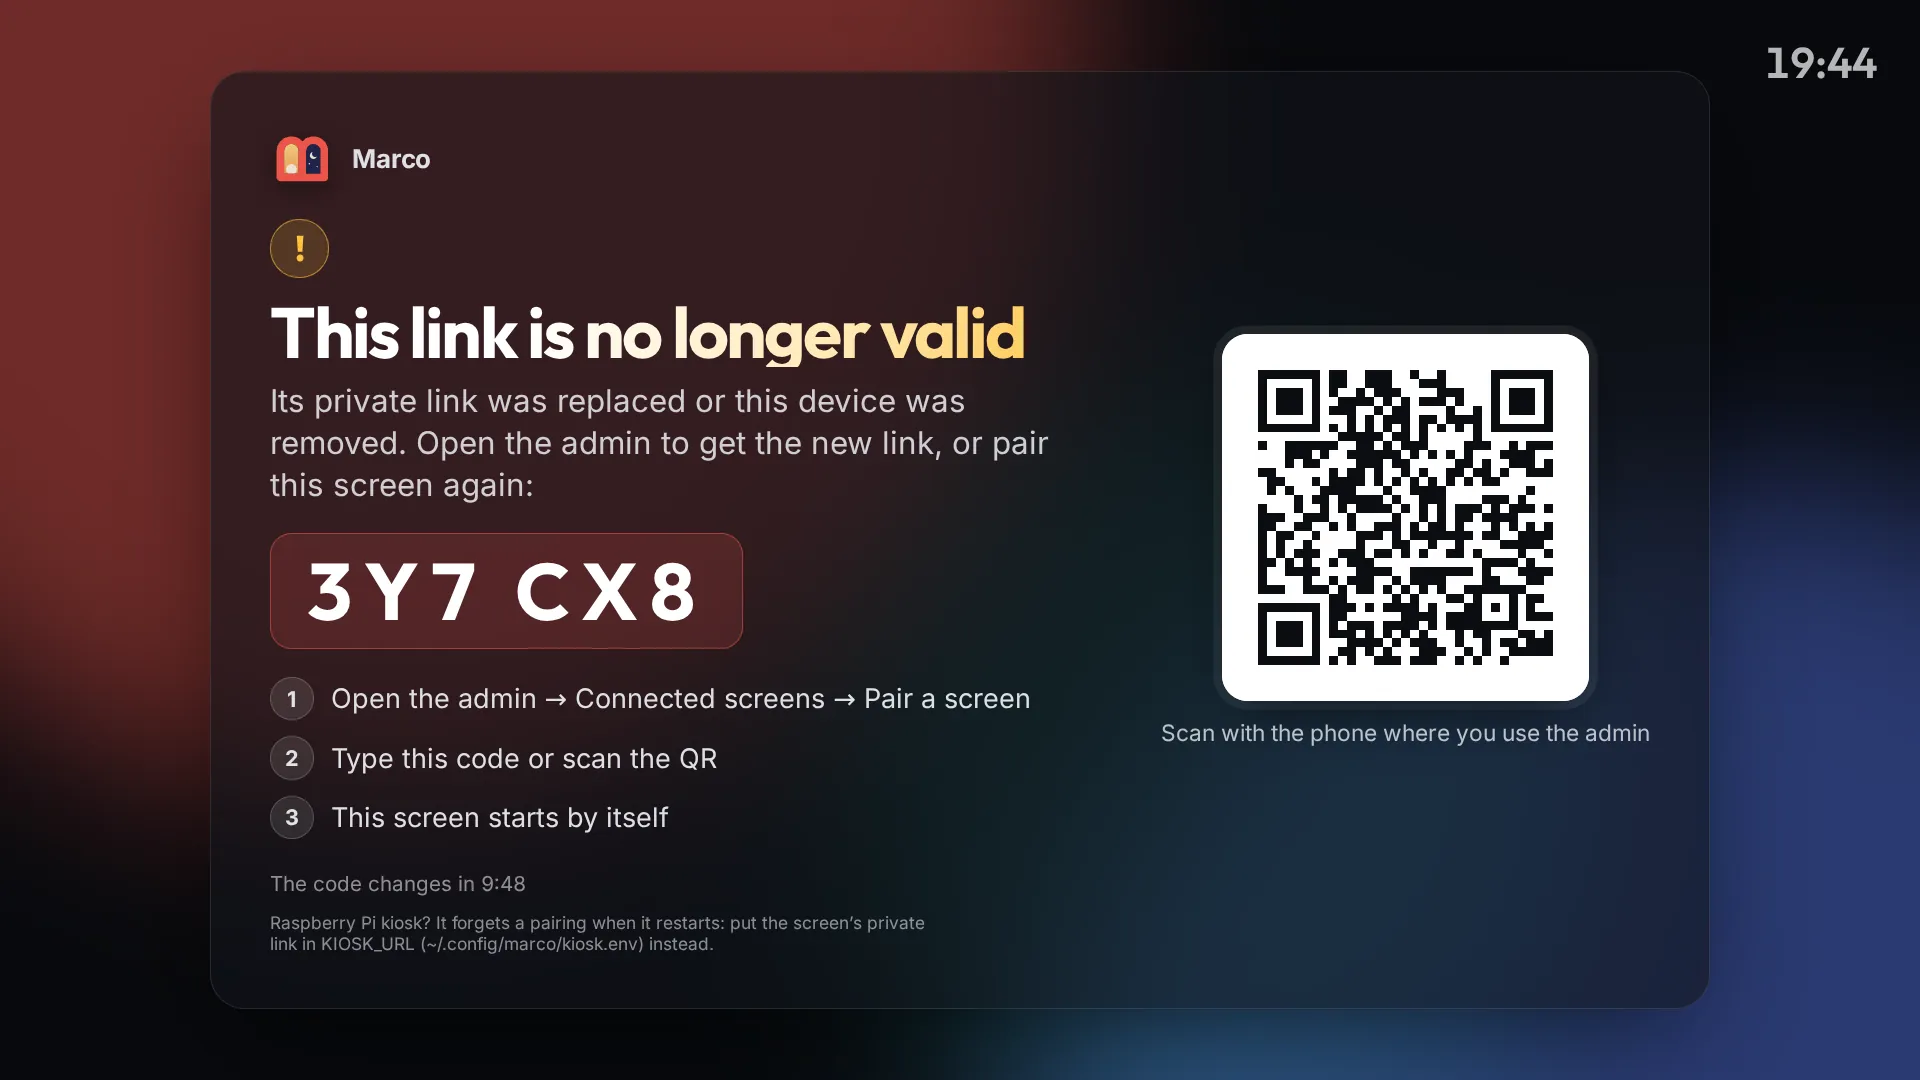
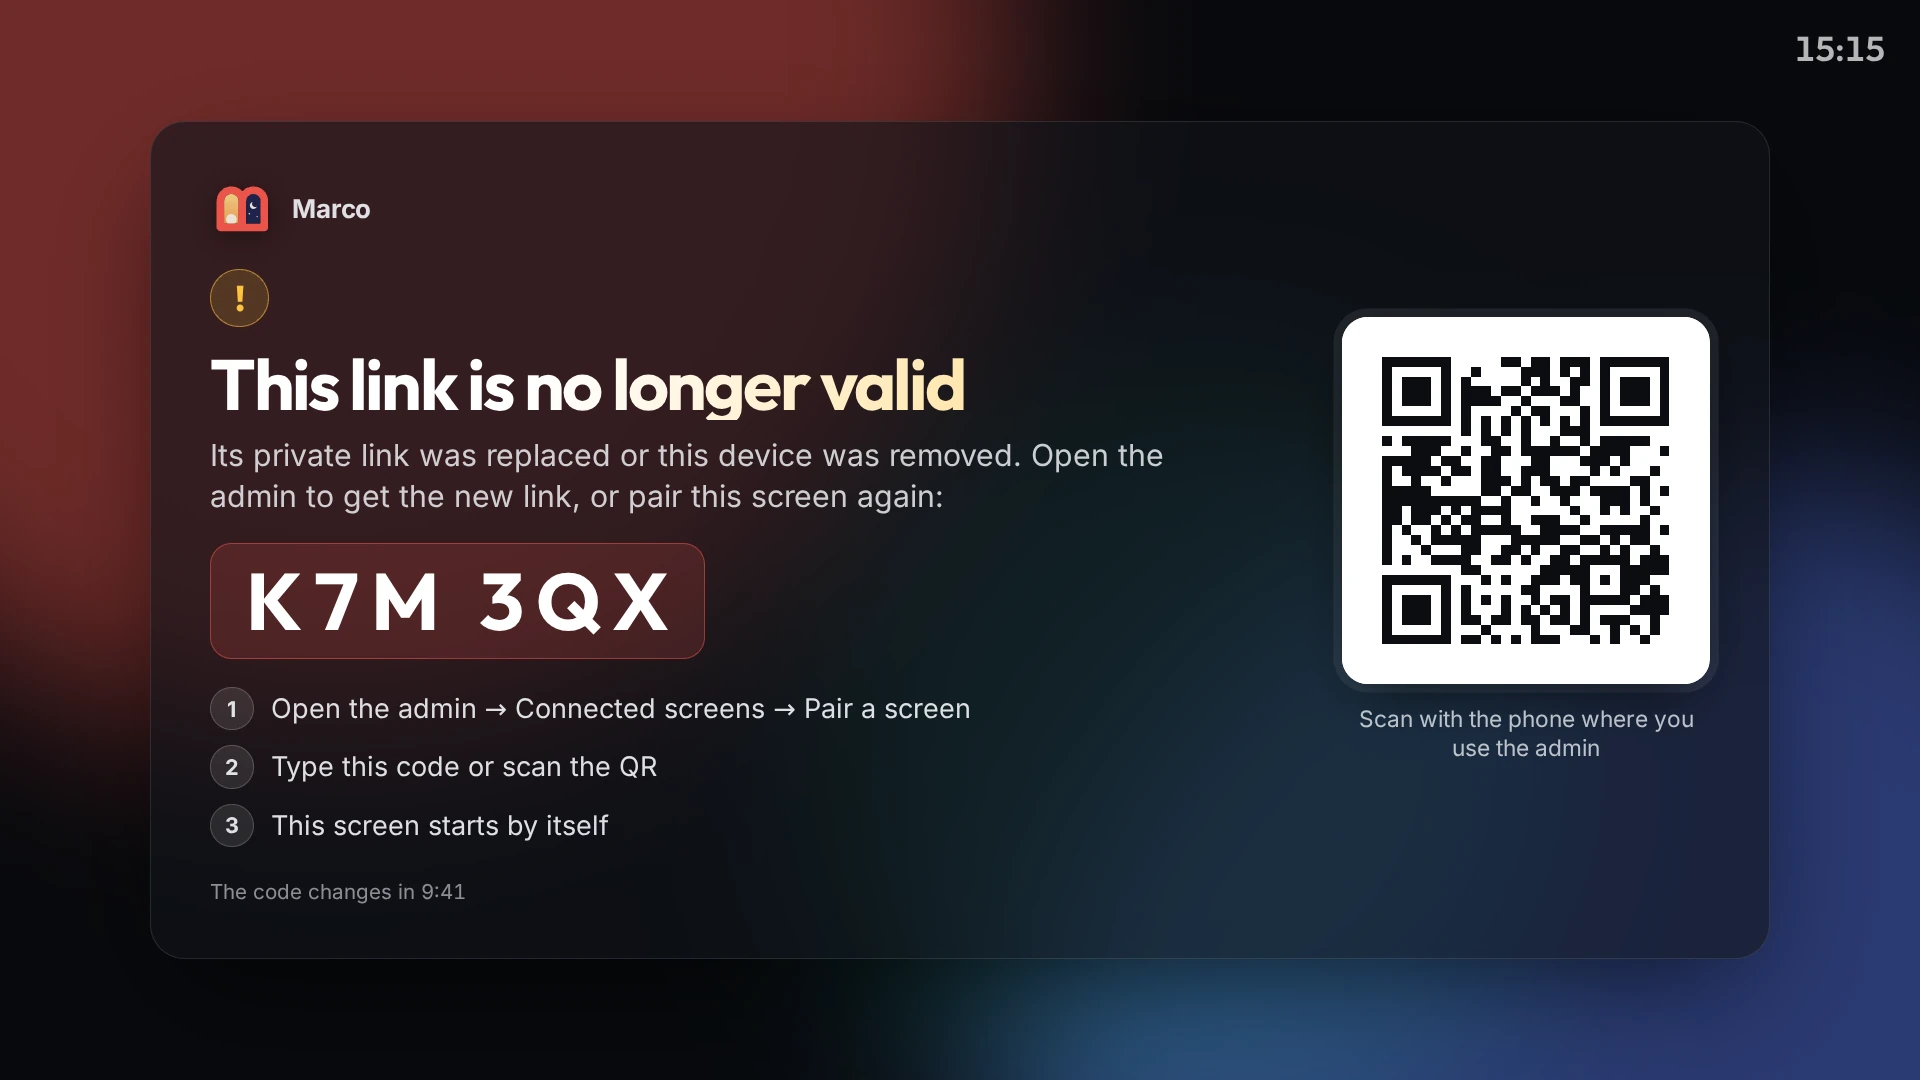
Docs: screenshots in the Modern style, new layouts and glass, Marco Cloud in the READMEs
- Display screenshots re-shot from the demo in the Modern style (same file names), plus the
  six new layouts (today, people, photo frame, two weeks, board, bedside), a Modern and Classic
  comparison and the glass options side by side.
- Pairing, invalid link and welcome screens re-shot after the pairing screen changes; the
  kitchen screen re-shot from the demo server.
- Admin re-shot where it changed: home, layout (style, glass and the eleven layouts), screens,
  gallery, private link, connected screens, Spanish home and the phone home.
- docs/media: new animated preview and poster in the Modern style.
- READMEs: link to marcohome.app, and a short "two ways to run it" section with Marco Cloud
  (free for families, hosted at app.marcohome.app) next to the self-hosted install; glass
  options in the feature list.

Changed region(s): [[0.0625, 0.0, 0.5938, 0.8861], [0.5312, 0.275, 0.9375, 0.9778], [0.9062, 0.0306, 1.0, 0.0917]]

diff --git a/README.md b/README.md
@@ -20,7 +20,7 @@
 
 <a href="https://github.com/mr-reb00t/marco/releases/download/media/marco-demo.mp4"><img src="docs/media/hero.webp" width="100%" alt="Marco on a living room screen: photo background, clock, weather and a month calendar; an alert from Home Assistant slides in saying the washing machine is done"></a>
 
-[Watch the 48-second demo video (MP4)](https://github.com/mr-reb00t/marco/releases/download/media/marco-demo.mp4) · [marcohome.app](https://marcohome.app)
+[Website: marcohome.app](https://marcohome.app) · [Marco Cloud](https://app.marcohome.app/signup) · [Demo video (MP4)](https://github.com/mr-reb00t/marco/releases/download/media/marco-demo.mp4)
 
 ```bash
 curl -fsSL https://marcohome.app/install | bash
@@ -28,12 +28,24 @@ curl -fsSL https://marcohome.app/install | bash
 
 </div>
 
+### Two ways to run it
+
+- **On your own hardware (self-hosted):** a Raspberry Pi, home server or NAS on your network, installed with the
+  one-line command above, [Docker](#docker) or [by hand](#manual-install-nodejs). Free and open source, and your data
+  stays at home. Everything in this README is about this option.
+- **Marco Cloud, if you don't want to run a server:** the same app and the same admin panel, hosted by us at
+  [app.marcohome.app](https://app.marcohome.app). It is free for families, runs on Cloudflare and keeps your data in
+  the EU. [Create an account](https://app.marcohome.app/signup), add your calendars and open your screen's link on a
+  TV, tablet or Raspberry Pi.
+
+More about both on the website: [marcohome.app](https://marcohome.app).
+
 ## Why
 
 Marco is inspired by [DAKboard](https://dakboard.com/): a wall display that shows your family calendar,
 the time, the weather, photos and news at a glance. It is a **free, open-source, self-hosted alternative** that you run
-on your own Raspberry Pi, home server or NAS **inside your local network**. There is no account, no subscription and
-no cloud in the middle: your configuration, photos and calendar data stay at home. The only outbound traffic goes to the
+on your own Raspberry Pi, home server or NAS **inside your local network**. When you host it yourself, there is no
+account, no subscription and no cloud in the middle: your configuration, photos and calendar data stay at home. The only outbound traffic goes to the
 calendars, weather and news feeds *you* connect.
 
 > Marco is an independent project. It is not affiliated with, endorsed by or connected to DAKboard;
@@ -49,13 +61,30 @@ calendars, weather and news feeds *you* connect.
 
 ### The display
 
-![Marco on a 1920x1080 display: clock, highlights, countdowns, weather and a month calendar with events, birthdays and vacation-rental stays](docs/screenshots/display-1920x1080.webp)
+![Marco on a 1920x1080 display in the Modern style: clock, highlights, countdowns, weather and a month calendar with events, birthdays and vacation-rental stays](docs/screenshots/display-1920x1080.webp)
 
 | | |
 |---|---|
 | ![Agenda layout with the next days listed in two columns](docs/screenshots/display-agenda.webp) | ![Big clock layout over a full-screen photo](docs/screenshots/display-bigtime.webp) |
 | ![Week view](docs/screenshots/display-week.webp) | ![Light theme with the calendar on the left and the photo on the right](docs/screenshots/display-light.webp) |
 | ![Announcement overlay sent from Home Assistant](docs/screenshots/display-announcement.webp) | ![Analog clock, rain effect over the photo and a scheduled message](docs/screenshots/display-rain.webp) |
+
+**Layouts for every room.** *Today*, *Per person*, *Photo frame*, *Two weeks*, *Board* and *Bedside*:
+
+| | |
+|---|---|
+| ![Today layout: the day hour by hour with a line for now, the next event in large type and the hourly weather](docs/screenshots/display-today.webp) | ![Per person layout: one column per calendar with today and tomorrow](docs/screenshots/display-people.webp) |
+| ![Photo frame layout: the photo with a small clock card in a corner](docs/screenshots/display-photoframe.webp) | ![Two weeks layout: the month grid with two roomy rows](docs/screenshots/display-twoweeks.webp) |
+| ![Board layout: agenda, message of the day, countdowns, to-dos and birthdays](docs/screenshots/display-board.webp) | ![Bedside layout: a large, dim clock with the next event and the temperature](docs/screenshots/display-bedside.webp) |
+
+**Modern or Classic, per screen.** Modern is the default; Classic keeps the original look:
+
+![The same screen in the Modern style (left) and the Classic style (right)](docs/screenshots/display-modern-vs-classic.webp)
+
+**Glass options** (Modern style): automatic, clear or tinted glass, with a dark, light or photo-coloured tint,
+transparency, blur and a light edge:
+
+![The side panel with five glass settings: automatic (the default), clear, tinted, light tint and photo tint](docs/screenshots/display-glass.webp)
 
 <img src="docs/screenshots/display-portrait-1080x1920.webp" width="280" align="right" alt="Portrait layout at 1080x1920">
 
@@ -70,6 +99,8 @@ calendars, weather and news feeds *you* connect.
   dims further at night. *Two weeks* is the month grid with two roomy rows.
 - **Two styles per screen:** *Modern* (the default), a minimal Apple-like look with glass cards over the photo,
   a Lock Screen clock and an iOS-style month grid, or *Classic*. The style is independent of the layout.
+- **Glass options** for the Modern style, per screen: automatic (adapts to each photo), clear or tinted; transparency,
+  blur, a dark, light or photo-coloured tint and a light edge, with a live preview in *Layout*.
 - **Automatic emoji:** 🎂 birthdays, ✈ flights, 🩺 doctor, 🎒 school, ⚽ sports, 🍽 dinners, 💼 meetings, 🏖
   holidays, 🚗 car, 🐾 vet and more, from editable keyword rules (35 categories with about 400 keywords in English,
   Spanish and Portuguese out of the box).
@@ -127,7 +158,11 @@ calendars, weather and news feeds *you* connect.
 | ![Command palette searching for night mode actions and settings](docs/screenshots/admin-home-palette.webp) | ![Local event editor: date, time, repeat, location and countdown](docs/screenshots/admin-local-edit.webp) | ![Upload conflict dialog: replace, keep both or skip](docs/screenshots/admin-photos-conflict.webp) |
 | ![Screens: one profile per room with its own layout and private link](docs/screenshots/admin-screens.webp) | ![Alerts page: send an alert now](docs/screenshots/admin-alerts.webp) | ![Activity log with filters](docs/screenshots/admin-activity.webp) |
 | ![Backups: export, import and automatic backups with restore](docs/screenshots/admin-backups.webp) | ![Countdowns: manual dates and automatic countdowns](docs/screenshots/admin-countdowns.webp) | ![Icon rules with a live tester for event titles](docs/screenshots/admin-icons.webp) |
-| ![Layout page with the live preview of the screen](docs/screenshots/admin-layout.webp) | ![Local events list with upcoming appointments](docs/screenshots/admin-local.webp) | ![Sign-in page of the admin panel](docs/screenshots/admin-login.webp) |
+| ![Layout page: Modern or Classic style, glass settings and the live preview of the screen](docs/screenshots/admin-layout.webp) | ![Local events list with upcoming appointments](docs/screenshots/admin-local.webp) | ![Sign-in page of the admin panel](docs/screenshots/admin-login.webp) |
+
+| | |
+|---|---|
+| ![Layout page: the eleven layouts with thumbnails](docs/screenshots/admin-layouts.webp) | ![Glass settings with a preview over a dark and a bright photo](docs/screenshots/admin-layout-glass.webp) |
 
 <p align="center">
   <img src="docs/screenshots/mobile-home.webp" width="230" alt="Admin on a phone: home">

diff --git a/README.es.md b/README.es.md
@@ -20,7 +20,7 @@ Un *marco* de fotos que también enmarca el día de tu familia.
 
 <a href="https://github.com/mr-reb00t/marco/releases/download/media/marco-demo.mp4"><img src="docs/media/hero.webp" width="100%" alt="Marco en la pantalla del salón: foto de fondo, reloj, tiempo y calendario mensual; llega un aviso de Home Assistant que dice que la lavadora ha terminado"></a>
 
-[Ver el vídeo de demostración de 48 segundos (MP4, en inglés)](https://github.com/mr-reb00t/marco/releases/download/media/marco-demo.mp4) · [marcohome.app](https://marcohome.app)
+[Web: marcohome.app](https://marcohome.app) · [Marco Cloud](https://app.marcohome.app/signup) · [Vídeo de demostración (MP4, en inglés)](https://github.com/mr-reb00t/marco/releases/download/media/marco-demo.mp4)
 
 ```bash
 curl -fsSL https://marcohome.app/install | bash
@@ -28,12 +28,24 @@ curl -fsSL https://marcohome.app/install | bash
 
 </div>
 
+### Dos formas de usarlo
+
+- **En tu propio equipo (autoalojado):** una Raspberry Pi, un servidor doméstico o un NAS en tu red, instalado con
+  el comando de arriba, con [Docker](#docker) o [a mano](#instalación-manual-nodejs). Gratis y de código abierto, y
+  tus datos se quedan en casa. Todo este README trata de esta opción.
+- **Marco Cloud, si no quieres tener un servidor:** la misma aplicación y el mismo panel de administración,
+  alojados por nosotros en [app.marcohome.app](https://app.marcohome.app). Es gratis para familias, funciona sobre
+  Cloudflare y guarda tus datos en la UE. [Crea una cuenta](https://app.marcohome.app/signup), añade tus calendarios
+  y abre el enlace de tu pantalla en una tele, una tablet o una Raspberry Pi.
+
+Más sobre las dos opciones en la web: [marcohome.app](https://marcohome.app).
+
 ## Por qué
 
 Marco está inspirado en [DAKboard](https://dakboard.com/): una pantalla de pared que muestra de un vistazo el
 calendario familiar, la hora, el tiempo, fotos y noticias. Es una **alternativa gratuita, de código abierto y
-autoalojada** que ejecutas en tu propia Raspberry Pi, servidor doméstico o NAS **dentro de tu red local**. Sin cuenta,
-sin suscripción y sin nube de por medio: tu configuración, tus fotos y los datos de tus calendarios se quedan en casa.
+autoalojada** que ejecutas en tu propia Raspberry Pi, servidor doméstico o NAS **dentro de tu red local**. Si lo alojas
+tú, no hay cuenta, ni suscripción, ni nube de por medio: tu configuración, tus fotos y los datos de tus calendarios se quedan en casa.
 El único tráfico saliente va a los calendarios, al tiempo y a las fuentes de noticias que *tú* conectes.
 
 > Marco es un proyecto independiente. No está afiliado, respaldado ni vinculado de ningún modo a DAKboard;
@@ -57,6 +69,23 @@ El único tráfico saliente va a los calendarios, al tiempo y a las fuentes de n
 | ![Vista semanal](docs/screenshots/display-week.webp) | ![Tema claro, calendario a la izquierda y foto a la derecha](docs/screenshots/display-light.webp) |
 | ![Aviso a pantalla completa enviado desde Home Assistant](docs/screenshots/display-announcement.webp) | ![Reloj analógico, efecto de lluvia y un mensaje programado](docs/screenshots/display-rain.webp) |
 
+**Un diseño para cada habitación.** *Hoy*, *Por persona*, *Marco de fotos*, *Dos semanas*, *Tablero* y *Mesilla*:
+
+| | |
+|---|---|
+| ![Diseño Hoy: el día hora a hora con una línea de ahora, el próximo evento en grande y el tiempo por horas](docs/screenshots/display-today.webp) | ![Diseño Por persona: una columna por calendario con lo de hoy y lo de mañana](docs/screenshots/display-people.webp) |
+| ![Diseño Marco de fotos: la foto con una tarjeta pequeña con la hora en una esquina](docs/screenshots/display-photoframe.webp) | ![Diseño Dos semanas: la cuadrícula del mes con dos filas amplias](docs/screenshots/display-twoweeks.webp) |
+| ![Diseño Tablero: agenda, mensaje del día, cuentas atrás, tareas y cumpleaños](docs/screenshots/display-board.webp) | ![Diseño Mesilla: un reloj grande y tenue con el próximo evento y la temperatura](docs/screenshots/display-bedside.webp) |
+
+**Moderno o Clásico, por pantalla.** Moderno es el de serie; Clásico mantiene el aspecto original:
+
+![La misma pantalla con el estilo Moderno (izquierda) y el Clásico (derecha)](docs/screenshots/display-modern-vs-classic.webp)
+
+**Opciones de cristal** (estilo Moderno): cristal automático, transparente o tintado, con tono oscuro, claro o del
+color de la foto, transparencia, desenfoque y borde de luz:
+
+![El panel lateral con cinco ajustes de cristal: automático (el de serie), transparente, tintado, tono claro y tono de la foto](docs/screenshots/display-glass.webp)
+
 <img src="docs/screenshots/display-portrait-1080x1920.webp" width="280" align="right" alt="Diseño vertical de 1080x1920">
 
 - **Calendario:** vistas de mes (con número de semanas configurable), agenda y semana; once diseños (*calendario
@@ -72,6 +101,8 @@ El único tráfico saliente va a los calendarios, al tiempo y a las fuentes de n
 - **Dos estilos por pantalla:** *Moderno* (el de serie), un aspecto minimalista al estilo de Apple, con tarjetas de
   cristal sobre la foto, reloj de pantalla de bloqueo y una cuadrícula de mes como la de iOS, o *Clásico*. El estilo
   es independiente del diseño.
+- **Opciones de cristal** del estilo Moderno, por pantalla: automático (se adapta a cada foto), transparente o
+  tintado; transparencia, desenfoque, tono oscuro, claro o de la foto y borde de luz, con vista previa en *Diseño*.
 - **Emojis automáticos:** 🎂 cumpleaños, ✈ vuelos, 🩺 médico, 🎒 colegio, ⚽ deporte, 🍽 cenas, 💼 reuniones, 🏖
   vacaciones, 🚗 coche, 🐾 veterinario y más, a partir de reglas de palabras clave editables (35 categorías con unas
   400 palabras clave en inglés, español y portugués de serie).
@@ -136,7 +167,11 @@ El único tráfico saliente va a los calendarios, al tiempo y a las fuentes de n
 | ![Paleta de comandos buscando el modo noche](docs/screenshots/admin-home-palette.webp) | ![Editor de eventos locales](docs/screenshots/admin-local-edit.webp) | ![Diálogo de conflicto al subir una foto con el mismo nombre](docs/screenshots/admin-photos-conflict.webp) |
 | ![Pantallas: un perfil por habitación](docs/screenshots/admin-screens.webp) | ![Página de avisos: enviar un aviso al momento](docs/screenshots/admin-alerts.webp) | ![Registro de actividad con filtros](docs/screenshots/admin-activity.webp) |
 | ![Copias de seguridad: exportar, importar y restaurar](docs/screenshots/admin-backups.webp) | ![Cuentas atrás: fechas manuales y automáticas](docs/screenshots/admin-countdowns.webp) | ![Reglas de iconos con probador en vivo](docs/screenshots/admin-icons.webp) |
-| ![Página de diseño con vista previa de la pantalla](docs/screenshots/admin-layout.webp) | ![Lista de eventos locales](docs/screenshots/admin-local.webp) | ![Página de inicio de sesión](docs/screenshots/admin-login.webp) |
+| ![Página de diseño: estilo Moderno o Clásico, cristal y vista previa de la pantalla](docs/screenshots/admin-layout.webp) | ![Lista de eventos locales](docs/screenshots/admin-local.webp) | ![Página de inicio de sesión](docs/screenshots/admin-login.webp) |
+
+| | |
+|---|---|
+| ![Página de diseño: los once diseños con miniaturas](docs/screenshots/admin-layouts.webp) | ![Ajustes de cristal con vista previa sobre una foto oscura y otra clara](docs/screenshots/admin-layout-glass.webp) |
 
 <p align="center">
   <img src="docs/screenshots/mobile-home.webp" width="230" alt="Administración en un móvil: inicio">
